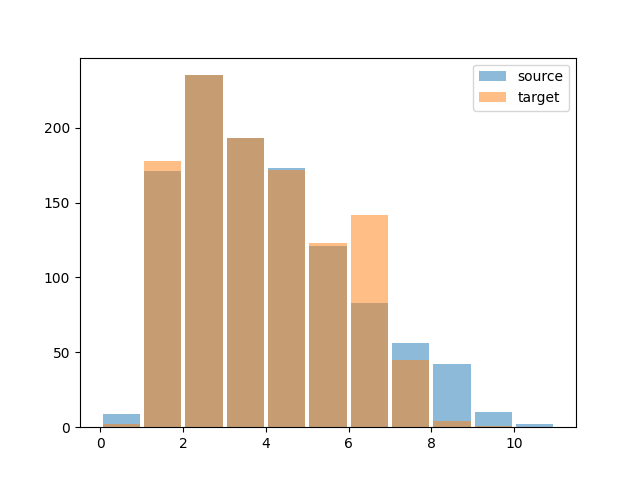
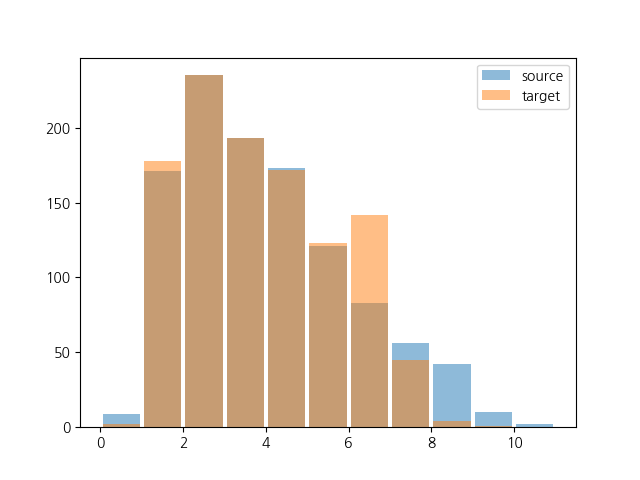
Jamo statistics

diff --git a/reduce_dataset.py b/reduce_dataset.py
@@ -1,6 +1,11 @@
 import librosa
 from tqdm import tqdm
 import matplotlib.pyplot as plt
+import matplotlib.font_manager as fm
+plt.rcParams["font.family"] = 'NanumGothic'
+import os
+from collections import Counter
+import jamotools
 
 source = 'filelists/custom_audio_text_train_filelist.txt'
 target = 'filelists/kss_audio_text_train_filelist.txt'
@@ -32,15 +37,51 @@ def find_closest_length(target, sec):
     
     return i
 
+def initialize_jamo_counter():
+    _letters_k = ''
+    for unicode in range(0x1100, 0x1113):
+        _letters_k += chr(unicode)
+    for unicode in range(0x1161, 0x1176):
+        _letters_k += chr(unicode)
+    for unicode in range(0x11A8, 0x11C3):
+        _letters_k += chr(unicode)
+        
+    _punctuation = '!\'(),.:;? '
+
+    symbols = list(_letters_k) + list(_punctuation)
+
+    c = Counter()
+    for s in symbols:
+        c[s] = 0
+
+    return c
+
+def get_script_jamo_counts(data_lengths):
+    c = initialize_jamo_counter()
+    for f, script, dur in  data_lengths:
+
+        jamos = jamotools.split_syllables(script.strip(), jamo_type="JAMO")
+
+        for j in jamos:
+            if j not in c:
+                # Join and resplit jamo
+                jamos = jamotools.split_syllables(jamotools.join_jamos(jamos), jamo_type="JAMO")
+                break
+
+        c.update(jamos)
+
+    return c
+
 for _, _, length in source_data_lengths:
     idx = find_closest_length(target_data_lengths, length)
     value = target_data_lengths.pop(idx)
     reduced_target_data_lengths.append(value)
     # print(f'{length:5.2f}, {value[-1]:5.2f}')
 
-with open(reduced_target, 'w') as file:
-    for f, script, _ in reduced_target_data_lengths:
-        file.write(f + '|' + script)
+if not os.path.isfile(reduced_target):
+    with open(reduced_target, 'w') as file:
+        for f, script, _ in reduced_target_data_lengths:
+            file.write(f + '|' + script)
 
 plt.figure()
 plt.hist([l for (_, _, l) in source_data_lengths], 
@@ -49,3 +90,34 @@ plt.hist([l for (_, _, l) in reduced_target_data_lengths],
          rwidth=0.9, alpha=0.5, label='target', bins=range(0, 12)) 
 plt.legend()
 plt.savefig('figs/reduced.png')
+
+source_jamo_counter = get_script_jamo_counts(source_data_lengths)
+reduced_jamo_counter = get_script_jamo_counts(reduced_target_data_lengths)
+del source_jamo_counter['1']
+target_jamo_counter = get_script_jamo_counts(target_data_lengths)
+
+print(target_jamo_counter.keys())
+
+# plt.figure(figsize=(18, 6))
+# fig, axes = plt.subplots(4, 1, figsize=(18, 12), sharex=True)
+fig, axes = plt.subplots(4, 1, figsize=(18, 12))
+axes[0].set_title('Target Jamo Distribution')
+axes[0].bar(target_jamo_counter.keys(), target_jamo_counter.values(), alpha=0.3, label='target')
+
+axes[1].set_title('Reduced Target Jamo Distribution')
+axes[1].bar(reduced_jamo_counter.keys(), reduced_jamo_counter.values(), alpha=0.3, label='reduced')
+
+axes[2].set_title('Source Jamo Distribution')
+axes[2].bar(source_jamo_counter.keys(), source_jamo_counter.values(), alpha=0.3, label='source')
+
+axes[3].set_title('Jamo Distributions')
+axes[3].bar(range(len(target_jamo_counter)), target_jamo_counter.values(), alpha=0.3, label='target')
+axes[3].bar(range(len(reduced_jamo_counter)), reduced_jamo_counter.values(), alpha=0.3, label='reduced')
+axes[3].bar(range(len(source_jamo_counter)), source_jamo_counter.values(), alpha=0.3, label='source')
+plt.xticks(range(len(target_jamo_counter)), 
+        list(map(jamotools.normalize_to_compat_jamo, target_jamo_counter.keys())))
+axes[3].set_yscale('log')
+plt.legend()
+plt.tight_layout()
+plt.savefig('figs/jamo_distributions.png')
+

diff --git a/inference.py b/inference.py
@@ -101,9 +101,9 @@ if __name__ == "__main__":
     python_script = './hifi-gan/inference_e2e.py'
     # options = f'--checkpoint_file ./runs/{}'
     # options = f'--checkpoint_file ./hifi-gan/runs/cp_hifigan/g_00110000' + \
-    #         f' --input_mels_dir ./hifi-gan/test_mel_files'
+    #           f' --input_mels_dir ./hifi-gan/test_mel_files'
     options = f'--checkpoint_file ./hifi-gan/runs/cp_hifigan_custom/g_00015000' + \
-            f' --input_mels_dir ./hifi-gan/test_mel_files'
+              f' --input_mels_dir ./hifi-gan/test_mel_files'
 
     os.system(f'python {python_script} {options}')
         # os.rename('./generated_files_from_mel/sample_generated_e2e.wav', \
